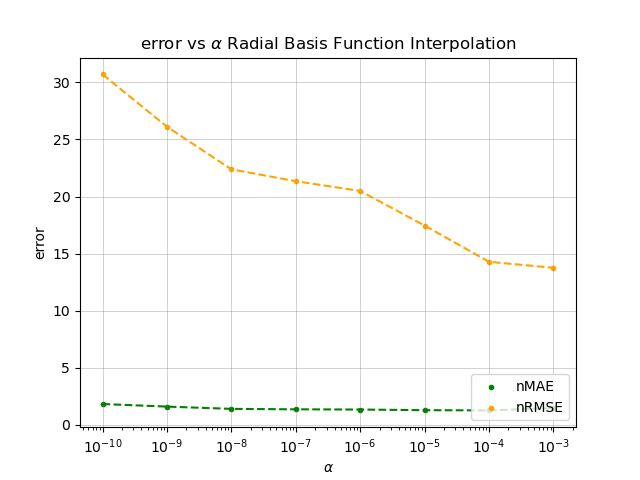
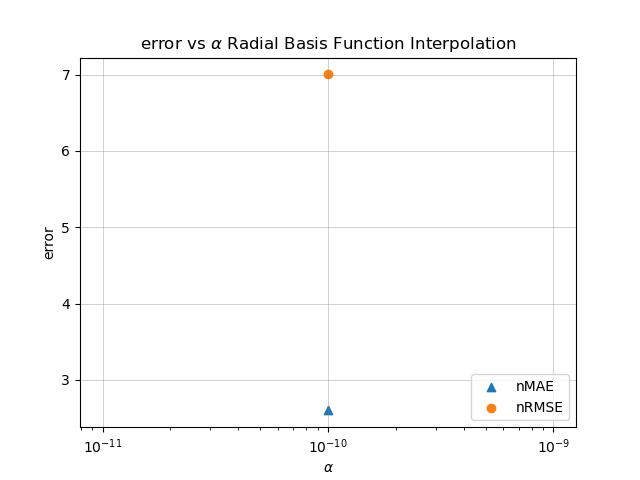
up

diff --git a/dynamic calibration/density based/prediction comparison.py b/dynamic calibration/density based/prediction comparison.py
@@ -9,10 +9,37 @@ from sklearn.metrics import mean_absolute_error as MAE, mean_squared_error as MS
 
 import matplotlib.pyplot as plt
 
-def nice_plot(x, y, x_name, y_name, name, color, grid=False, legend_pos=None):
+import CoilModel as Coil
+
+coil_model = Coil.CoilModel(module_config={'centers_x': [-93.543*1000, 0., 93.543*1000, -68.55*1000, 68.55*1000, -93.543*1000, 0., 93.543*1000], 
+                                      'centers_y': [93.543*1000, 68.55*1000, 93.543*1000, 0., 0., -93.543*1000, -68.55*1000, -93.543*1000]}) # mm
+
+def get_theoretical_field(model, point, ori=None):
+    tmp = np.concatenate(model.coil_field_total(point[0], point[1], point[2]), axis=1).T
+    if ori is None: return tmp # (3, 8)
+    return np.dot(ori, tmp) 
+
+origin = np.array([-50., -50., 50.])
+side_length = 100.
+n_diag_points = 100
+x_diag = np.linspace(origin[0], origin[0]+side_length, n_diag_points)[:, np.newaxis]
+y_diag = np.linspace(origin[1], origin[1]+side_length, n_diag_points)[:, np.newaxis]
+z_diag = np.linspace(origin[2], origin[2]+side_length, n_diag_points)[:, np.newaxis]
+diag = np.concatenate((x_diag, y_diag, z_diag), axis=1)
+
+diag_for_x = np.concatenate((diag, np.array([[1., 0., 0.] for _ in range(n_diag_points)])), axis=1)
+diag_for_y = np.concatenate((diag, np.array([[0., 1., 0.] for _ in range(n_diag_points)])), axis=1)
+diag_for_z = np.concatenate((diag, np.array([[0., 0., 1.] for _ in range(n_diag_points)])), axis=1)
+
+simulated_x = np.array([get_theoretical_field(coil_model, diag_for_x[i][:3], diag_for_x[i][3:]) for i in range(n_diag_points)])
+simulated_y = np.array([get_theoretical_field(coil_model, diag_for_y[i][:3], diag_for_y[i][3:]) for i in range(n_diag_points)])
+simulated_z = np.array([get_theoretical_field(coil_model, diag_for_z[i][:3], diag_for_z[i][3:]) for i in range(n_diag_points)])
+
+
+def nice_plot(x, y, x_name, y_name, name, marker, grid=False, legend_pos=None):
     
-    plt.scatter(x, y, color=color, marker='.', label=name)
-    plt.plot(x, y, color=color, ls='--')
+    plt.scatter(x, y, marker=marker, label=name)
+    plt.plot(x, y, ls='--')
     if grid: plt.grid(color='grey', linewidth=.5, alpha=.5)
     if x_name is not None: plt.xlabel(x_name)
     if y_name is not None: plt.ylabel(y_name)
@@ -44,7 +71,7 @@ def main():
     dictionary_with_performances = {}
     
     # to model the noise
-    alphas = [1e-10, 1e-9, 1e-8, 1e-7, 1e-6, 1e-5, 1e-4, 1e-3]
+    alphas = [1e-10]#, 1e-9, 1e-8, 1e-7, 1e-6, 1e-5, 1e-4, 1e-3, 1e-2, 1e-1, 1., 10., 100.]
     for alpha in alphas:
         
         # gaussian process regression
@@ -66,45 +93,119 @@ def main():
         crbf = crbfi.custom_radial_basis_function_interpolator(gamma=.0005, sigma=alpha, points=x_train, measures=y_train, stack_grid=x_val) 
         pred = crbf.predict()
         unc = crbf.uncertainty()
-        mae = MAE(pred, y_val) / den_to_normalize_val * 100
-        rmse = MSE(pred, y_val, squared=False) / den_to_normalize_val * 100
+        
+        mae_per_point = [MAE(pred[i], y_val[i]) for i in range(y_val.shape[0])]
+        mae = sum(mae_per_point)/len(mae_per_point)
+        mae = mae / den_to_normalize_val * 100
+        
+        rmse_per_point = [MSE(pred[i], y_val[i], squared=False) for i in range(y_val.shape[0])]
+        rmse = sum(rmse_per_point)/len(rmse_per_point)
+        rmse = rmse / den_to_normalize_val * 100
+        
+        crbf = crbfi.custom_radial_basis_function_interpolator(gamma=.0005, sigma=alpha, points=x_train, measures=y_train, stack_grid=diag_for_x) 
+        pred_x = crbf.predict()
+        crbf = crbfi.custom_radial_basis_function_interpolator(gamma=.0005, sigma=alpha, points=x_train, measures=y_train, stack_grid=diag_for_y) 
+        pred_y = crbf.predict()
+        crbf = crbfi.custom_radial_basis_function_interpolator(gamma=.0005, sigma=alpha, points=x_train, measures=y_train, stack_grid=diag_for_z) 
+        pred_z = crbf.predict()
+        
         dictionary_with_performances["custom radial basis function interpolator " + str(alpha)] = {"alpha": alpha, 
                                                             "nmae": mae,
                                                             "nrmse": rmse,
-                                                            "uncertainty": unc}
-        
-
+                                                            "uncertainty": unc,
+                                                            "nmae per point": mae_per_point,
+                                                            "nrmse per point": rmse_per_point,
+                                                            "diag x preds": pred_x,
+                                                            "diag y preds": pred_y,
+                                                            "diag z preds": pred_z,
+                                                            }
     
         # neural network 
         # None for now
         
         # test also on a diagonal (need to know the dimension of the cube)
 
-    # print(dictionary_with_performances)
-    
-    # gaussian process
+    '''
+    # gaussian process error vs alpha
     
     plt.figure()
     plt.title(r'error vs $\alpha$ Gaussian Process Regression')
     y = [dictionary_with_performances["gaussian process " + str(alpha)]['nmae'] for alpha in alphas]
-    nice_plot(alphas, y, r'$\alpha$', 'error', 'nMAE', color='green', grid=True)
+    nice_plot(alphas, y, r'$\alpha$', 'error', 'nMAE', marker='^', grid=True)
     
     y = [dictionary_with_performances["gaussian process " + str(alpha)]['nrmse'] for alpha in alphas]
-    nice_plot(alphas, y, None, None, 'nRMSE', color='orange', legend_pos='lower right')
+    nice_plot(alphas, y, None, None, 'nRMSE', marker='o', legend_pos='lower right')
     plt.xscale('log')
     plt.savefig('gpr alpha error')
     
-    # crbfi
+    # gassian process r2 vs alpha
+    
+    plt.figure()
+    plt.title(r'$R^2$ vs $\alpha$ Gaussian Process Regression')
+    y = [dictionary_with_performances["gaussian process " + str(alpha)]['r2'] for alpha in alphas]
+    nice_plot(alphas, y, r'$\alpha$', 'error', 'nMAE', marker='^', grid=True, legend_pos='lower right')
+    plt.xscale('log')
+    plt.savefig('gpr alpha r2')
+    
+    # crbfi error vs alpha
     
     plt.figure()
     plt.title(r'error vs $\alpha$ Radial Basis Function Interpolation')
     y = [dictionary_with_performances["custom radial basis function interpolator " + str(alpha)]['nmae'] for alpha in alphas]
-    nice_plot(alphas, y, r'$\alpha$', 'error', 'nMAE', color='green', grid=True)
+    nice_plot(alphas, y, r'$\alpha$', 'error', 'nMAE', marker='^', grid=True)
     
     y = [dictionary_with_performances["custom radial basis function interpolator " + str(alpha)]['nrmse'] for alpha in alphas]
-    nice_plot(alphas, y, None, None, 'nRMSE', color='orange', legend_pos='lower right')
+    nice_plot(alphas, y, None, None, 'nRMSE', marker='o', legend_pos='lower right')
     plt.xscale('log')
     plt.savefig('crbfi alpha error')
+    
+    # correlation error and uncertainty crbfi
+    
+    plt.figure()
+    plt.title("RBFI nMAE and uncertainty. nMAE = " + str(round(dictionary_with_performances["custom radial basis function interpolator " + str(alpha)]['nmae'], 4)) + " %")
+    x = dictionary_with_performances["custom radial basis function interpolator " + str(1e-10)]['uncertainty']
+    y = dictionary_with_performances["custom radial basis function interpolator " + str(1e-10)]['nmae per point']
+    plt.scatter(x, y, marker='.', alpha=.5, color='black')
+    plt.xlabel('uncertainty')
+    plt.ylabel('nMAE')
+    plt.savefig('rbfi nmae unc')
+    
+    plt.figure()
+    plt.title("RBFI nRMSE and uncertainty. nRMSE = " + str(round(dictionary_with_performances["custom radial basis function interpolator " + str(alpha)]['nrmse'], 4)) + " %")
+    x = dictionary_with_performances["custom radial basis function interpolator " + str(1e-10)]['uncertainty']
+    y = dictionary_with_performances["custom radial basis function interpolator " + str(1e-10)]['nrmse per point']
+    plt.scatter(x, y, marker='.', alpha=.5, color='black')
+    plt.xlabel('uncertainty')
+    plt.ylabel('nRMSE')
+    plt.savefig('rbfi nrmse unc')
+    
+    plt.figure()
+    plt.title("RBFI nMAE and uncertainty. nMAE = " + str(round(dictionary_with_performances["custom radial basis function interpolator " + str(alpha)]['nmae'], 4)) + " %")
+    x = dictionary_with_performances["custom radial basis function interpolator " + str(1e-10)]['uncertainty']
+    y = dictionary_with_performances["custom radial basis function interpolator " + str(1e-10)]['nmae per point']
+    plt.scatter(x, y, marker='.', alpha=.5, color='black')
+    plt.xlabel('uncertainty')
+    plt.ylabel('nMAE')
+    plt.xscale('log')
+    plt.yscale('log')
+    plt.savefig('rbfi nmae unc log')
+    
+    plt.figure()
+    plt.title("RBFI nRMSE and uncertainty. nRMSE = " + str(round(dictionary_with_performances["custom radial basis function interpolator " + str(alpha)]['nrmse'], 4)) + " %")
+    x = dictionary_with_performances["custom radial basis function interpolator " + str(1e-10)]['uncertainty']
+    y = dictionary_with_performances["custom radial basis function interpolator " + str(1e-10)]['nrmse per point']
+    plt.scatter(x, y, marker='.', alpha=.5, color='black')
+    plt.xlabel('uncertainty')
+    plt.ylabel('nRMSE')
+    plt.xscale('log')
+    plt.yscale('log')
+    plt.savefig('rbfi nrmse unc log')
+    '''
+
+    plt.figure()
+    plt.plot(range(n_diag_points), dictionary_with_performances["custom radial basis function interpolator " + str(1e-10)]['diag x preds'][:, 0], color='red')
+    plt.plot(range(n_diag_points), np.array(simulated_x)[:, 0, 0], color='green')
+    plt.show()
 
 main()
 
